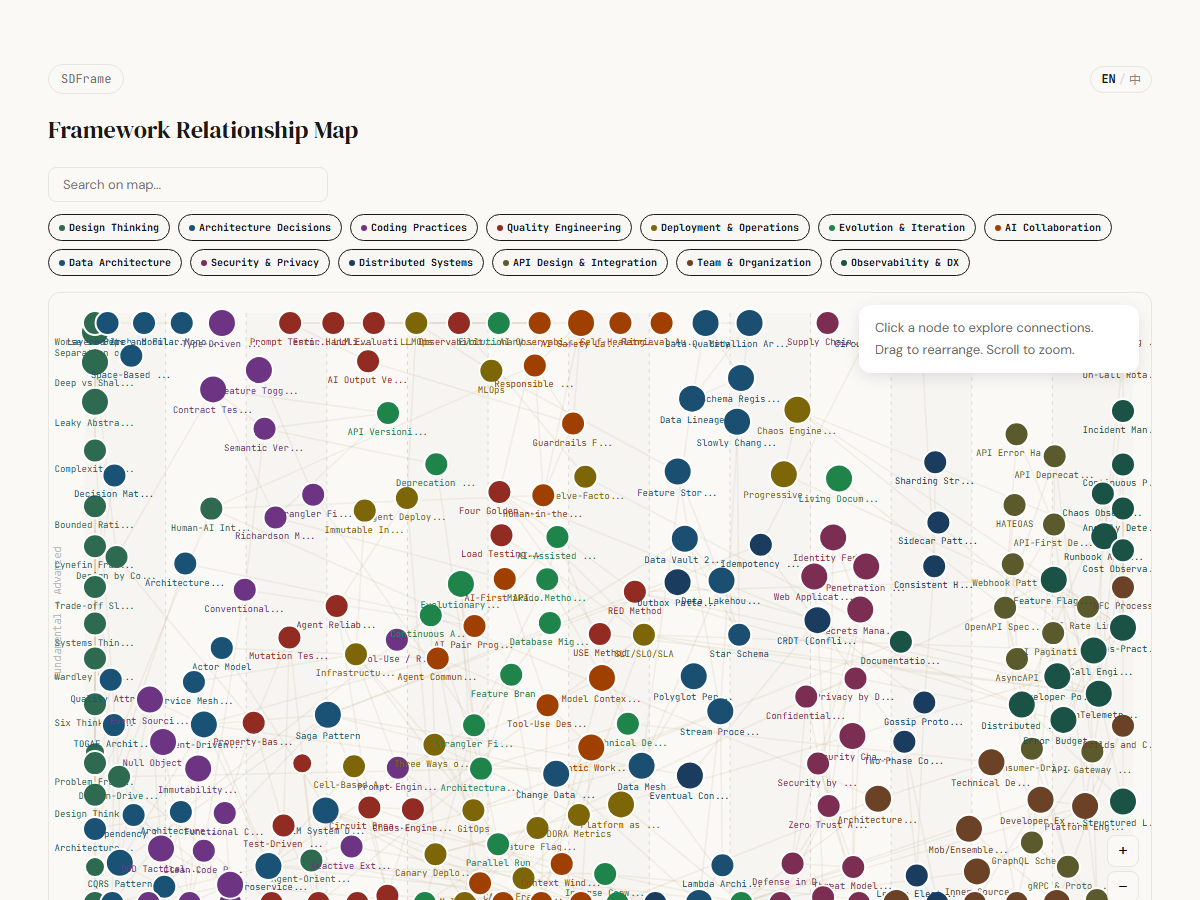
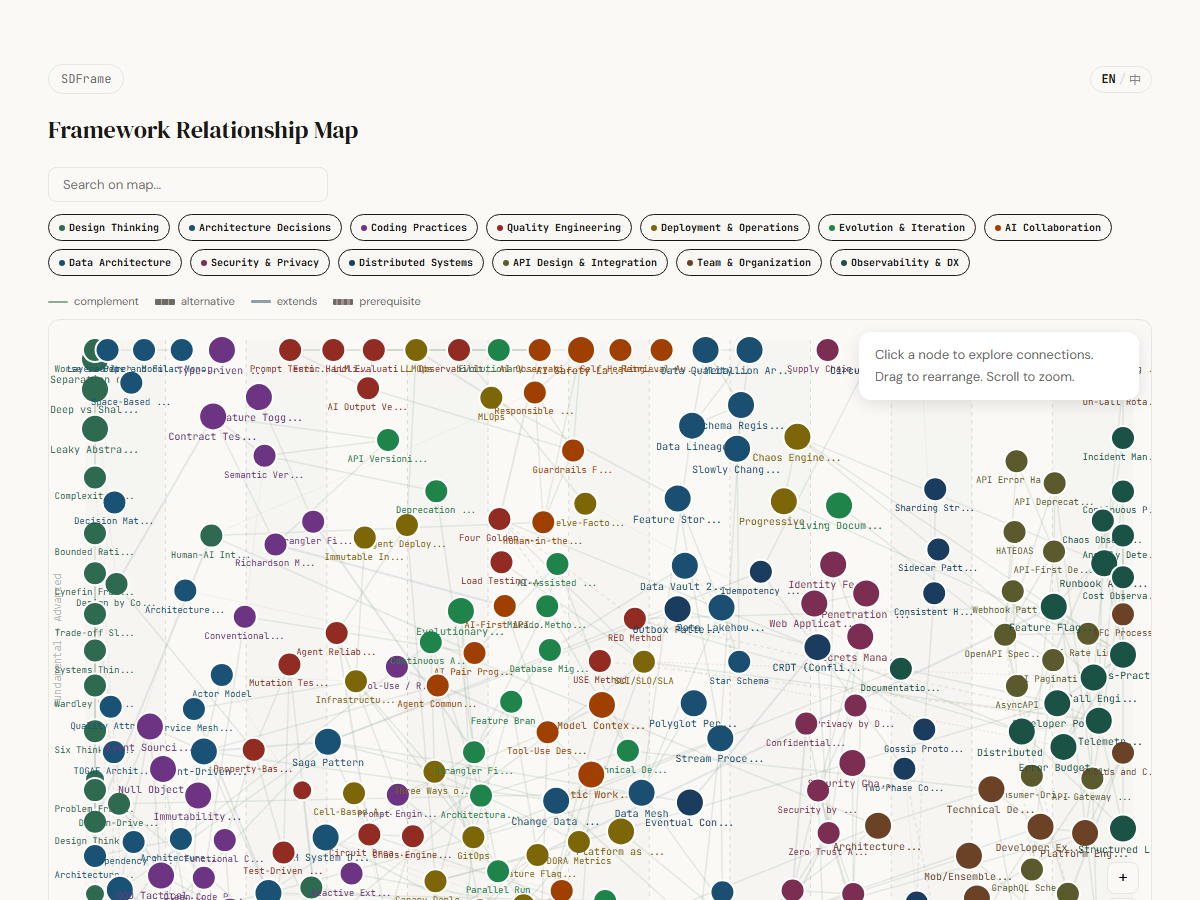
feat: typed edges on map + KP-Map R4 polish (Sprint S20)
Map typed edges:
- Edges styled by relation type: complement(sage/solid), alternative(gold/dashed),
  extends(slate/thick), prerequisite(rose/dotted), related(muted/thin)
- Edge type legend below category filters
- Side panel shows relation type badges for connections
- Labels 10px for high-connection nodes (was 9px)

New E2E test: map edges exist with different styles (49 total).

Changed region(s): [[0.0308, 0.3111, 0.9558, 1.0]]

diff --git a/src/pages/MapPage.tsx b/src/pages/MapPage.tsx
@@ -1,11 +1,11 @@
 import { useRef, useEffect, useState, useCallback } from 'react'
 import { useNavigate, Link } from 'react-router-dom'
 import * as d3 from 'd3'
-import { getAllFrameworks, getFrameworkBySlug } from '../data/loader'
+import { getAllFrameworks, getFrameworkBySlug, getTypedRelations } from '../data/loader'
 import { categories, getCategoryByKey } from '../data/categories'
 import { useI18n } from '../i18n'
 import { usePageMeta } from '../hooks/usePageMeta'
-import type { CategoryKey } from '../types'
+import type { CategoryKey, RelationType } from '../types'
 import styles from './MapPage.module.css'
 
 interface SimNode extends d3.SimulationNodeDatum {
@@ -23,6 +23,7 @@ interface SimNode extends d3.SimulationNodeDatum {
 interface SimLink extends d3.SimulationLinkDatum<SimNode> {
   source: string | SimNode
   target: string | SimNode
+  relType: RelationType
 }
 
 export default function MapPage() {
@@ -102,7 +103,7 @@ export default function MapPage() {
       .attr('opacity', d => {
         const s = d.source as SimNode
         const t = d.target as SimNode
-        return activeCategories.has(s.category) && activeCategories.has(t.category) ? 0.15 : 0.05
+        return activeCategories.has(s.category) && activeCategories.has(t.category) ? 0.2 : 0.05
       })
   }, [activeCategories])
 
@@ -148,12 +149,22 @@ export default function MapPage() {
     const nodeMap = new Map(nodes.map(n => [n.slug, n]))
     const links: SimLink[] = []
     frameworks.forEach(f => {
-      f.related.forEach(r => {
-        if (f.slug < r && nodeMap.has(r)) {
-          links.push({ source: f.slug, target: r })
+      const typed = getTypedRelations(f)
+      typed.forEach(r => {
+        if (f.slug < r.slug && nodeMap.has(r.slug)) {
+          links.push({ source: f.slug, target: r.slug, relType: r.type })
         }
       })
     })
+
+    // Edge colors by relation type
+    const edgeStyles: Record<string, { color: string; dash: string; width: number }> = {
+      complement: { color: '#8faa8f', dash: '', width: 1.5 },
+      alternative: { color: '#c4a882', dash: '4,3', width: 1.5 },
+      extends: { color: '#8f9faa', dash: '', width: 2 },
+      prerequisite: { color: '#aa8f8f', dash: '2,2', width: 1 },
+      related: { color: '#d4cdc4', dash: '', width: 1 },
+    }
 
     // Layout margins for axis labels
     const margin = { top: 20, right: 20, bottom: 40, left: 36 }
@@ -303,9 +314,10 @@ export default function MapPage() {
       .data(links)
       .join('line')
       .attr('class', 'link-line')
-      .attr('stroke', '#c4a882')
-      .attr('stroke-width', 1.5)
-      .attr('opacity', 0.15)
+      .attr('stroke', d => edgeStyles[d.relType]?.color || '#d4cdc4')
+      .attr('stroke-width', d => edgeStyles[d.relType]?.width || 1)
+      .attr('stroke-dasharray', d => edgeStyles[d.relType]?.dash || '')
+      .attr('opacity', 0.2)
 
     // Node groups
     const node = g.append('g')
@@ -353,7 +365,7 @@ export default function MapPage() {
       .attr('class', 'node-label')
       .attr('text-anchor', 'middle')
       .attr('dy', d => (6 + Math.min(d.related.length, 4) * 2) + 10)
-      .attr('font-size', 9)
+      .attr('font-size', d => d.related.length >= 4 ? 10 : 9)
       .attr('font-family', 'var(--font-mono)')
       .attr('fill', d => {
         const cat = getCategoryByKey(d.category)
@@ -368,12 +380,6 @@ export default function MapPage() {
       tooltipRef.current?.classList.remove(styles.tooltipVisible)
     })
 
-    // Helper to get category color for a node
-    const getNodeColor = (d: SimNode) => {
-      const cat = getCategoryByKey(d.category)
-      return cat ? cat.colorText : '#999'
-    }
-
     // Interactions
     node
       .on('mouseenter', (event, d) => {
@@ -381,24 +387,25 @@ export default function MapPage() {
         d3.select(event.currentTarget).select('.node-label')
           .attr('opacity', 1)
 
-        // Highlight connected edges with category color and glow
+        // Highlight connected edges — show typed styling with thicker lines + glow
         const connectedSlugs = new Set(d.related)
-        const sourceColor = getNodeColor(d)
         link
           .attr('stroke', l => {
             const s = (l.source as SimNode).slug
             const tgt = (l.target as SimNode).slug
-            return (s === d.slug || tgt === d.slug) ? sourceColor : '#c4a882'
+            if (s === d.slug || tgt === d.slug) return edgeStyles[l.relType]?.color || '#d4cdc4'
+            return edgeStyles[l.relType]?.color || '#d4cdc4'
           })
           .attr('stroke-width', l => {
             const s = (l.source as SimNode).slug
             const tgt = (l.target as SimNode).slug
-            return (s === d.slug || tgt === d.slug) ? 3 : 1.5
+            return (s === d.slug || tgt === d.slug) ? 3 : (edgeStyles[l.relType]?.width || 1)
           })
+          .attr('stroke-dasharray', l => edgeStyles[l.relType]?.dash || '')
           .attr('opacity', l => {
             const s = (l.source as SimNode).slug
             const tgt = (l.target as SimNode).slug
-            return (s === d.slug || tgt === d.slug) ? 0.8 : 0.05
+            return (s === d.slug || tgt === d.slug) ? 1 : 0.05
           })
           .attr('filter', l => {
             const s = (l.source as SimNode).slug
@@ -451,11 +458,12 @@ export default function MapPage() {
         }
       })
       .on('mouseleave', () => {
-        // Reset links to default warm styling
+        // Reset links to typed edge styles
         link
-          .attr('stroke', '#c4a882')
-          .attr('stroke-width', 1.5)
-          .attr('opacity', 0.15)
+          .attr('stroke', l => edgeStyles[l.relType]?.color || '#d4cdc4')
+          .attr('stroke-width', l => edgeStyles[l.relType]?.width || 1)
+          .attr('stroke-dasharray', l => edgeStyles[l.relType]?.dash || '')
+          .attr('opacity', 0.2)
           .attr('filter', 'none')
 
         // Restore labels: always show for high-connection, zoom-dependent for others
@@ -484,24 +492,25 @@ export default function MapPage() {
         d3.select(event.currentTarget).select('.node-label')
           .attr('opacity', 1)
 
-        // Highlight connected edges with category color and glow
+        // Highlight connected edges — show typed styling with thicker lines + glow
         const connectedSlugs = new Set(d.related)
-        const sourceColor = getNodeColor(d)
         link
           .attr('stroke', l => {
             const s = (l.source as SimNode).slug
             const tgt = (l.target as SimNode).slug
-            return (s === d.slug || tgt === d.slug) ? sourceColor : '#c4a882'
+            if (s === d.slug || tgt === d.slug) return edgeStyles[l.relType]?.color || '#d4cdc4'
+            return edgeStyles[l.relType]?.color || '#d4cdc4'
           })
           .attr('stroke-width', l => {
             const s = (l.source as SimNode).slug
             const tgt = (l.target as SimNode).slug
-            return (s === d.slug || tgt === d.slug) ? 3 : 1.5
+            return (s === d.slug || tgt === d.slug) ? 3 : (edgeStyles[l.relType]?.width || 1)
           })
+          .attr('stroke-dasharray', l => edgeStyles[l.relType]?.dash || '')
           .attr('opacity', l => {
             const s = (l.source as SimNode).slug
             const tgt = (l.target as SimNode).slug
-            return (s === d.slug || tgt === d.slug) ? 0.8 : 0.05
+            return (s === d.slug || tgt === d.slug) ? 1 : 0.05
           })
           .attr('filter', l => {
             const s = (l.source as SimNode).slug
@@ -665,6 +674,20 @@ export default function MapPage() {
           </button>
         ))}
       </div>
+      <div className={styles.edgeLegend}>
+        <span className={styles.edgeLegendItem}>
+          <span className={styles.edgeLine} style={{ background: '#8faa8f' }} /> complement
+        </span>
+        <span className={styles.edgeLegendItem}>
+          <span className={styles.edgeLine} style={{ background: '#c4a882', borderStyle: 'dashed' }} /> alternative
+        </span>
+        <span className={styles.edgeLegendItem}>
+          <span className={styles.edgeLine} style={{ background: '#8f9faa', height: '3px' }} /> extends
+        </span>
+        <span className={styles.edgeLegendItem}>
+          <span className={styles.edgeLine} style={{ background: '#aa8f8f', borderStyle: 'dotted' }} /> prerequisite
+        </span>
+      </div>
       <div className={styles.mapLayout}>
         <div className={styles.svgContainer} ref={containerRef} style={selectedNode ? { flex: 1 } : undefined}>
           <svg ref={svgRef} />
@@ -711,29 +734,33 @@ export default function MapPage() {
                 </ul>
               </div>
             )}
-            {selectedFramework.related.length > 0 && (
-              <div className={styles.panelSection}>
-                <div className={styles.panelSectionTitle}>{t.mapConnections}</div>
-                {selectedFramework.related.map(slug => {
-                  const relFw = getFrameworkBySlug(slug)
-                  if (!relFw) return null
-                  const relCat = getCategoryByKey(relFw.category)
-                  return (
-                    <div
-                      key={slug}
-                      className={styles.connectionItem}
-                      onClick={() => setSelectedNode(slug)}
-                    >
-                      <span
-                        className={styles.connectionDot}
-                        style={{ background: relCat ? relCat.colorText : '#999' }}
-                      />
-                      {localized(relFw, 'name')}
-                    </div>
-                  )
-                })}
-              </div>
-            )}
+            {selectedFramework.related.length > 0 && (() => {
+              const typedRels = getTypedRelations(selectedFramework)
+              return (
+                <div className={styles.panelSection}>
+                  <div className={styles.panelSectionTitle}>{t.mapConnections}</div>
+                  {typedRels.map(({ slug, type }) => {
+                    const relFw = getFrameworkBySlug(slug)
+                    if (!relFw) return null
+                    const relCat = getCategoryByKey(relFw.category)
+                    return (
+                      <div
+                        key={slug}
+                        className={styles.connectionItem}
+                        onClick={() => setSelectedNode(slug)}
+                      >
+                        <span
+                          className={styles.connectionDot}
+                          style={{ background: relCat ? relCat.colorText : '#999' }}
+                        />
+                        {localized(relFw, 'name')}
+                        <span className={styles.relTypeBadge}>{type}</span>
+                      </div>
+                    )
+                  })}
+                </div>
+              )
+            })()}
             <Link
               to={`/frameworks/${selectedFramework.slug}`}
               className={styles.panelViewBtn}

diff --git a/src/pages/MapPage.module.css b/src/pages/MapPage.module.css
@@ -343,6 +343,39 @@
   to { opacity: 1; }
 }
 
+.edgeLegend {
+  display: flex;
+  gap: 16px;
+  flex-wrap: wrap;
+  font-size: 11px;
+  color: var(--muted);
+  margin-bottom: 8px;
+}
+
+.edgeLegendItem {
+  display: flex;
+  align-items: center;
+  gap: 6px;
+}
+
+.edgeLine {
+  width: 20px;
+  height: 2px;
+  border-radius: 1px;
+  display: inline-block;
+}
+
+.relTypeBadge {
+  margin-left: auto;
+  font-size: 10px;
+  font-family: var(--font-mono);
+  color: var(--muted);
+  opacity: 0.7;
+  padding: 1px 6px;
+  border: 1px solid var(--border);
+  border-radius: 8px;
+}
+
 @media (max-width: 768px) {
   .sidePanel {
     position: fixed;

diff --git a/e2e/data-display.spec.ts b/e2e/data-display.spec.ts
@@ -69,6 +69,15 @@ test.describe('Data Display Correctness', () => {
     }
   })
 
+  test('map edges have different styles for relation types', async ({ page }) => {
+    await page.goto('/map')
+    await page.waitForTimeout(2000)
+    // Check that SVG has line elements with different stroke colors
+    const lines = page.locator('svg line.link-line')
+    const count = await lines.count()
+    expect(count).toBeGreaterThan(50) // should have many edges
+  })
+
   test('framework detail page renders content sections', async ({ page }) => {
     // Check a known framework has all major sections
     await page.goto('/frameworks/solid-principles')